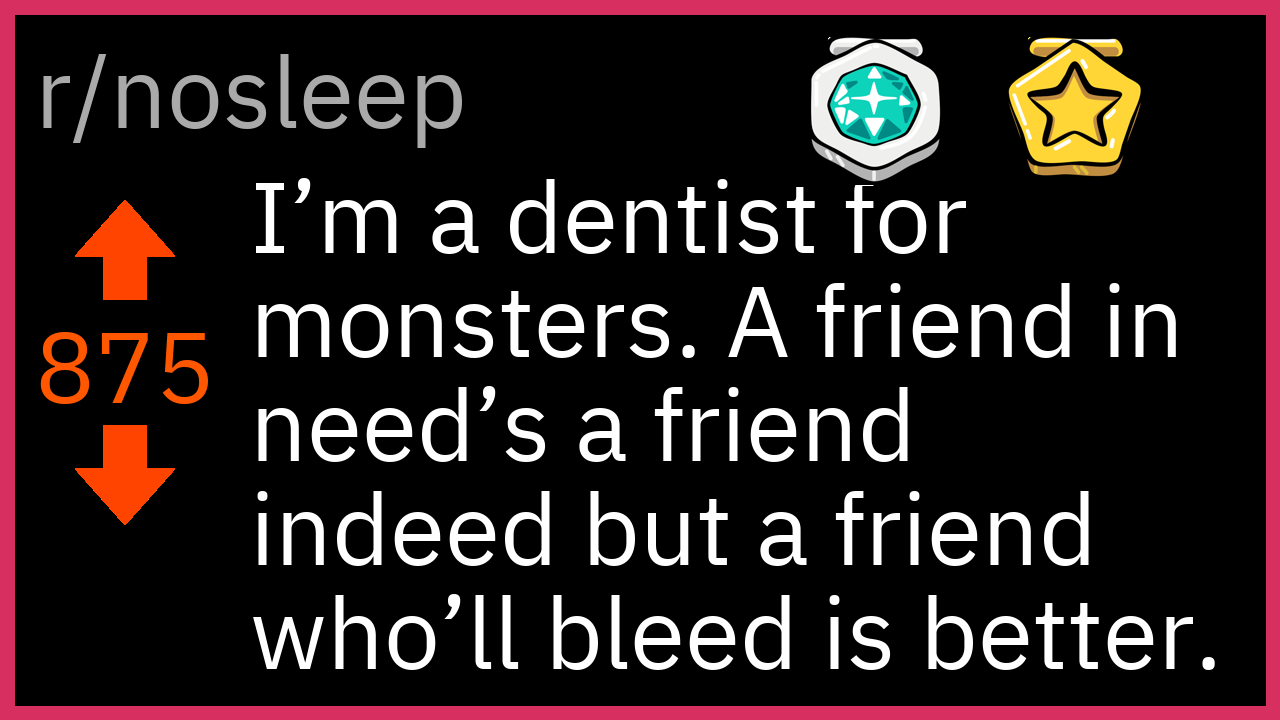
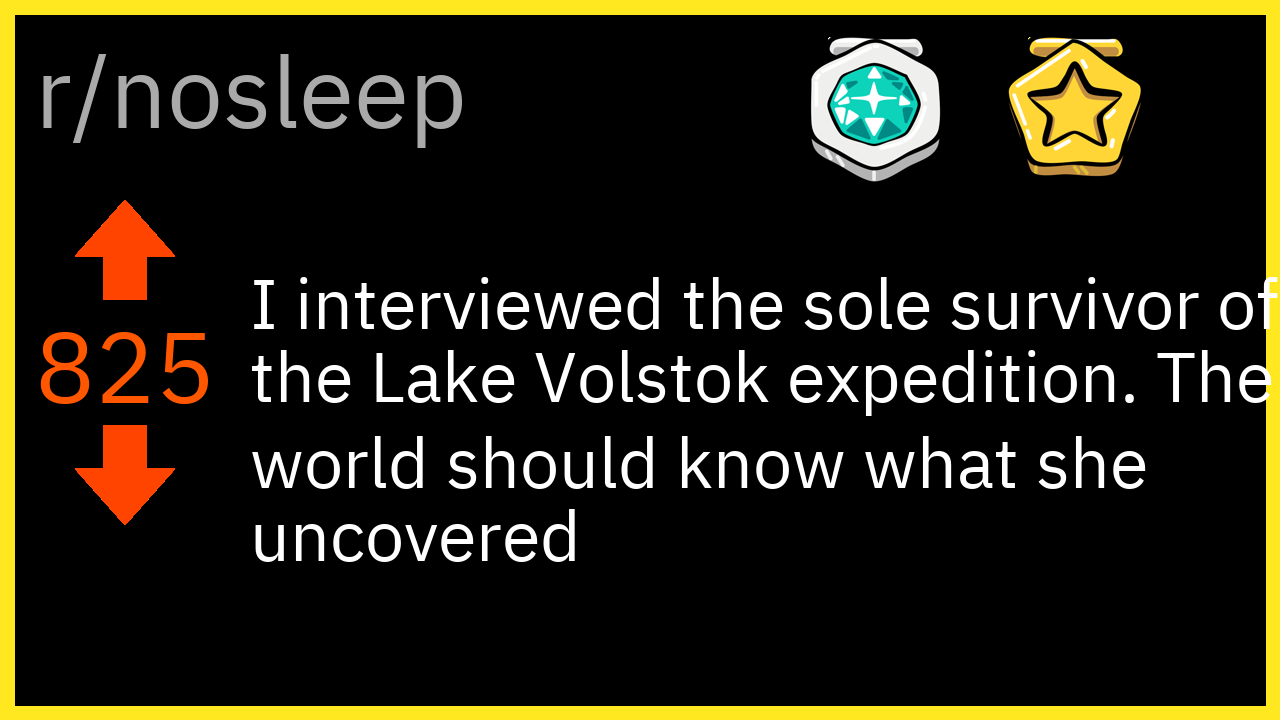
stuff

diff --git a/video.py b/video.py
@@ -3,8 +3,8 @@ from moviepy.audio.io.AudioFileClip import AudioFileClip
 from moviepy.video.io.VideoFileClip import VideoFileClip
 from moviepy.audio.fx.all import audio_normalize
 from moviepy.audio.fx.volumex import volumex
+from PIL import Image, ImageDraw
 from mutagen.wave import WAVE
-from PIL import Image
 import thumbnail
 import markdown
 import reddit
@@ -16,11 +16,11 @@ import re
 import os
 
 class RedditVideo:
-	def __init__(self, filename='video.mp4', video_type='post', reddit_data={}, size=(1280, 720)):
+	def __init__(self, filename='video.mp4', video_type='post', reddit_data={}, size=(1280, 720), post_id=None):
 		self.size = size
 		self.filename = filename
 		self.fps = 24
-		self.reddit_data = reddit_data if reddit_data else reddit.fetch_post()
+		self.reddit_data = reddit_data if reddit_data else reddit.fetch_post(post_id=post_id)
 
 		filename_name_part, filename_ext_part = filename.split('.', 1)
 		self.video_silent_filename = filename_name_part + '-silent.' + filename_ext_part
@@ -73,24 +73,29 @@ class RedditVideo:
 			text=self.reddit_data['title']
 		)
 
-	def _create_post_part(self, content, new_content):
+	def _create_post_part(self, content, new_content, author, page_number):
 		im = Image.new('RGBA', self.size, (26, 26, 27))
-		text_im = markdown.matdown_to_pillow(content, width=self.size[0]-20)
-		im.paste(text_im, (10, 10), text_im)
+		text_im = markdown.matdown_to_pillow(content, width=self.size[0]-100)
+		d = ImageDraw.Draw(im)
+		if page_number == 0:
+			current_font = markdown.fonts[16]
+			d.text((50, 16), f'Written by u/{author or "???"}', font=current_font, fill='#666666')
+
+		im.paste(text_im, (50, 50), text_im)
 		self._add_video_section(
 			'image',
 			image=im,
 			text=markdown.matdown_to_plaintext(new_content)
 		)
 
-	def _create_post_body(self, content):
+	def _create_post_body(self, content, author):
 		print('content', content)
 		matdown_content = markdown.markdown_to_matdown(content)
 		print('matdown_content', matdown_content)
 		# matdown_content = matdown_content[:300]
-		content_pages = markdown.matdown_to_pages(matdown_content, self.size[0]-20, self.size[1]-20)
+		content_pages = markdown.matdown_to_pages(matdown_content, self.size[0]-100, self.size[1]-100)
 		print(content_pages)
-		for page in content_pages:
+		for page_number, page in enumerate(content_pages):
 			sentences_split = re.findall(r'(.+?)( *[\.\?!\n][\'"\)\]]*[ \n]*)', page)
 			sentences = [sentence[0] + sentence[1] for sentence in sentences_split]
 			displaying_text_list = []
@@ -101,7 +106,12 @@ class RedditVideo:
 				displaying_text = ''.join(displaying_text_list)
 				saying_text = markdown.matdown_to_plaintext(sentence)
 				if not re.search('[a-zA-Z]', saying_text): continue
-				self._create_post_part(displaying_text, saying_text)
+				self._create_post_part(
+					displaying_text,
+					saying_text,
+					author=author,
+					page_number=page_number
+				)
 
 	def _render(self):
 		for section in self.video_sections:
@@ -166,7 +176,10 @@ class RedditVideo:
 		print('Starting...')
 		self.video_sections = []
 		self._create_intro()
-		self._create_post_body(self.reddit_data['body'])
+		# self._create_post_body(
+		# 	self.reddit_data['body'],
+		# 	author=self.reddit_data['author']
+		# )
 
 		print('\nPrepared how the video should look, now writing frames using Pillow.')
 

diff --git a/reddit.py b/reddit.py
@@ -1,30 +1,41 @@
 import requests
 
 
-def fetch_post(subreddit=None):
+def fetch_post(subreddit=None, post_id=None):
 	# return {
 	# 	'id': 'abc',
 	# 	'title': 'title',
 	# 	'body': 'Lorem ipsum dolor sit amet, consectetur adipiscing elit. Fusce scelerisque urna quis maximus scelerisque. Vivamus convallis semper quam vel vestibulum. Donec in luctus lectus. Nunc tempus scelerisque enim, in porttitor sapien egestas non. Donec id varius enim. Sed nec consectetur nulla. Mauris vel cursus nisi.',
 	# 	'score': 69420,
-	# 	'subreddit_name_prefixed': 'r/snooslash'
+	# 	'subreddit_name_prefixed': 'r/snooslash',
+	# 	'author': 'matdoesdev'
 	# }
-	if subreddit is None:
-		subreddit = 'nosleep'
-	r = requests.get(f'https://www.reddit.com/r/{subreddit}.json', headers={
-		'user-agent': 'snooslash'
-	})
-	data = r.json()
-	posts_list = data['data']['children']
-	for post in posts_list:
-		post = post['data']
-		if post['locked']: continue
-		elif post['stickied']: continue
-		elif post['distinguished'] == 'moderator': continue
-		return {
-			'id': post['id'],
-			'title': post['title'],
-			'body': post['selftext'],
-			'score': post['score'],
-			'subreddit_name_prefixed': post['subreddit_name_prefixed']
-		}
+	if post_id:
+		r = requests.get(f'https://www.reddit.com/comments/{post_id}.json', headers={
+			'user-agent': 'snooslash'
+		})
+		data = r.json()
+		post = data[0]['data']['children'][0]['data']
+	else:
+		if subreddit is None:
+			subreddit = 'nosleep'
+		r = requests.get(f'https://www.reddit.com/r/{subreddit}.json', headers={
+			'user-agent': 'snooslash'
+		})
+		data = r.json()
+		posts_list = data['data']['children']
+		post = None
+		for post in posts_list:
+			post = post['data']
+			if post['locked']: continue
+			elif post['stickied']: continue
+			elif post['distinguished'] == 'moderator': continue
+			break
+	return {
+		'id': post['id'],
+		'title': post['title'],
+		'body': post['selftext'],
+		'score': post['score'],
+		'subreddit_name_prefixed': post['subreddit_name_prefixed'],
+		'author': post['author'],
+	}

diff --git a/markdown.py b/markdown.py
@@ -95,9 +95,11 @@ def matdown_to_plaintext(content):
 	return output
 
 
+font_16 = ImageFont.truetype('NotoSans-Regular.ttf', 16)
 font_24 = ImageFont.truetype('NotoSans-Regular.ttf', 24)
 
 fonts = {
+	16: font_16,
 	24: font_24
 }
 

diff --git a/main.py b/main.py
@@ -1,3 +1,3 @@
 import video
 
-v = video.RedditVideo()
+v = video.RedditVideo(post_id='jxxrzg')
